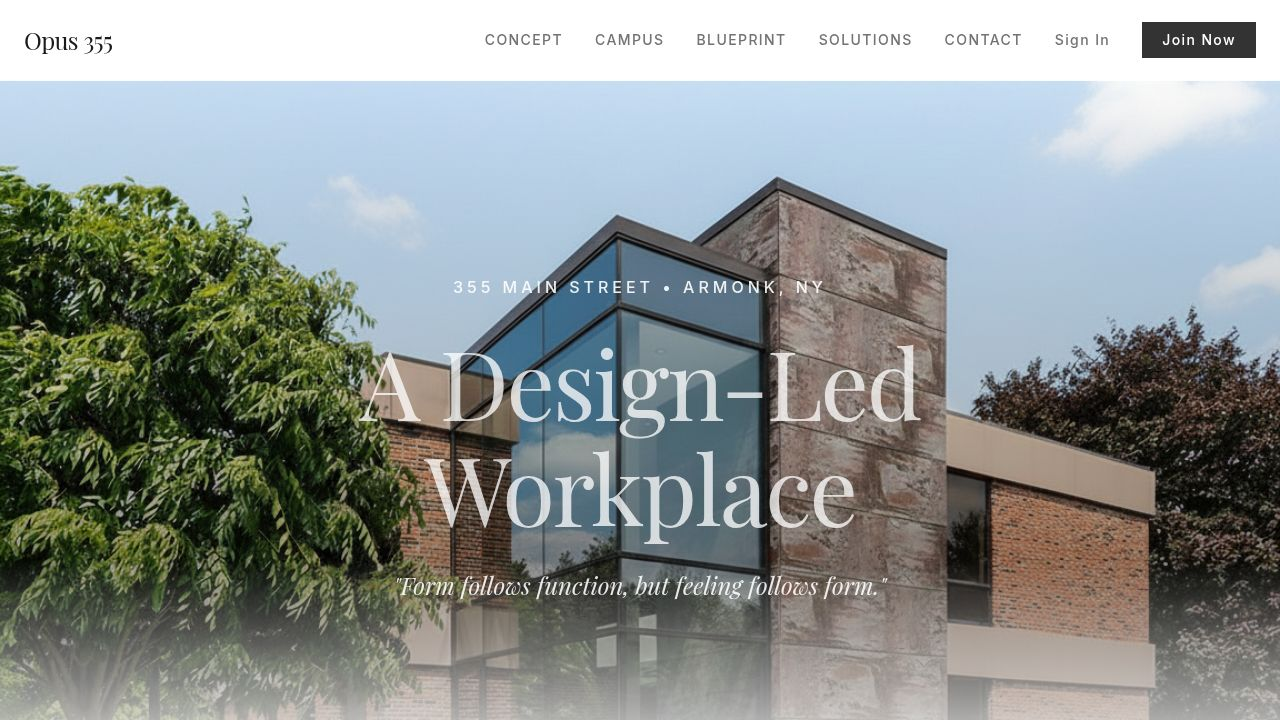
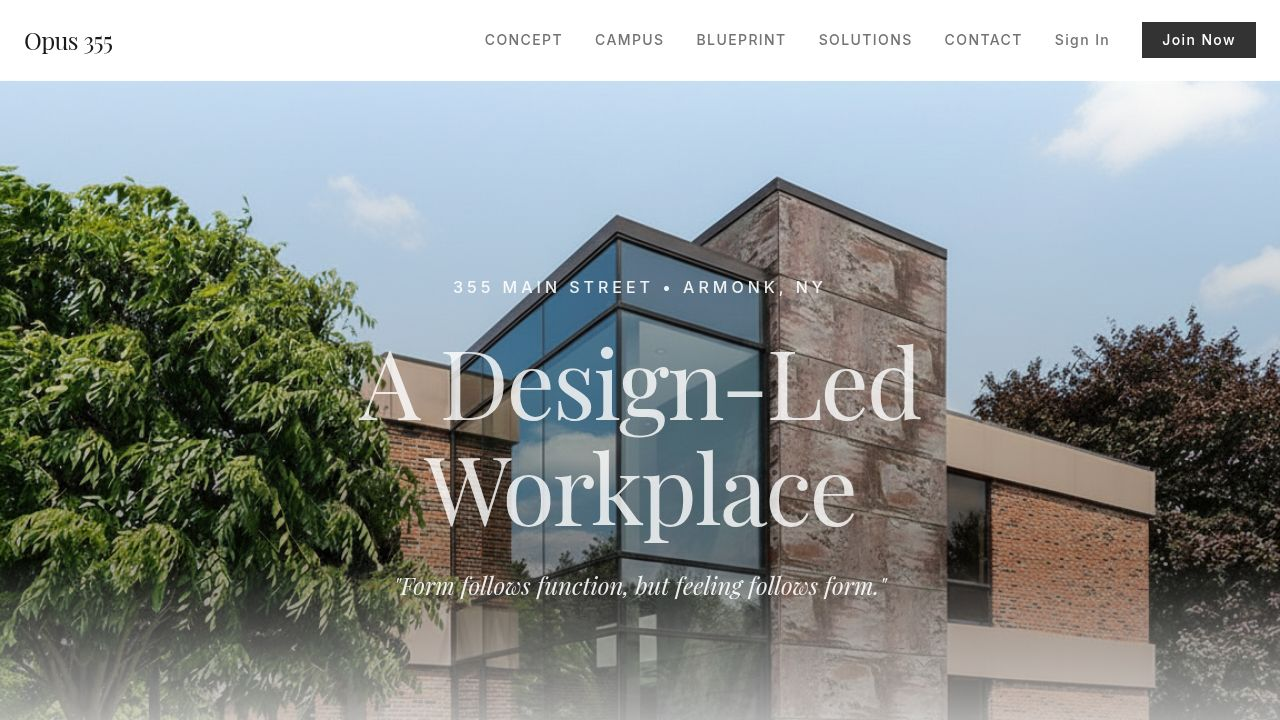
Add a dedicated page and improved error handling for authentication issues
Introduces an auth-error page and enhances the /api/auth/callback route to redirect to this page with specific error codes and details, improving user feedback and debugging capabilities.

Replit-Commit-Author: Agent
Replit-Commit-Session-Id: 16e21467-bb40-4acd-9b30-89ce2bb02aa0
Replit-Commit-Checkpoint-Type: intermediate_checkpoint
Replit-Commit-Event-Id: bac3530d-2cdc-47cc-b8c5-5e7d806a93bd
Replit-Commit-Screenshot-Url: https://storage.googleapis.com/screenshot-production-us-central1/9f72cabb-9bf3-4c30-9f3f-5f475a08b80e/16e21467-bb40-4acd-9b30-89ce2bb02aa0/fXp1WwT
Replit-Helium-Checkpoint-Created: true

diff --git a/client/src/pages/auth-error.tsx b/client/src/pages/auth-error.tsx
@@ -1,0 +1,128 @@
+import { useLocation } from "wouter";
+import { AlertTriangle, ArrowLeft, Mail, RefreshCw, HelpCircle } from "lucide-react";
+import { Button } from "@/components/ui/button";
+import { Card, CardContent, CardDescription, CardHeader, CardTitle } from "@/components/ui/card";
+
+const ERROR_MESSAGES: Record<string, { title: string; description: string; action?: string }> = {
+  auth_not_configured: {
+    title: "Authentication Not Available",
+    description: "The authentication system is not properly configured. Please contact support for assistance.",
+    action: "contact",
+  },
+  missing_code: {
+    title: "Authentication Incomplete",
+    description: "The authentication process was interrupted. This can happen if you navigated away during sign-in.",
+    action: "retry",
+  },
+  no_email: {
+    title: "Email Required",
+    description: "We couldn't retrieve your email address from the authentication provider. Please try signing in with a different method.",
+    action: "retry",
+  },
+  email_not_verified: {
+    title: "Email Not Verified",
+    description: "Please verify your email address before signing in. Check your inbox for a verification link.",
+    action: "retry",
+  },
+  auth_failed: {
+    title: "Authentication Failed",
+    description: "Something went wrong during sign-in. This may be a temporary issue. Please try again.",
+    action: "retry",
+  },
+  invalid_client: {
+    title: "Configuration Error",
+    description: "There's a mismatch in the authentication configuration. Our team has been notified and is working on a fix.",
+    action: "contact",
+  },
+  session_expired: {
+    title: "Session Expired",
+    description: "Your session has expired. Please sign in again to continue.",
+    action: "retry",
+  },
+  default: {
+    title: "Authentication Error",
+    description: "An unexpected error occurred during sign-in. Please try again or contact support if the problem persists.",
+    action: "retry",
+  },
+};
+
+export default function AuthError() {
+  const [, setLocation] = useLocation();
+  
+  const params = new URLSearchParams(window.location.search);
+  const errorCode = params.get("code") || "default";
+  const errorDetails = params.get("details");
+  
+  const errorInfo = ERROR_MESSAGES[errorCode] ?? ERROR_MESSAGES.default!;
+
+  const handleRetry = () => {
+    window.location.href = "/api/auth/login";
+  };
+
+  const handleGoHome = () => {
+    setLocation("/");
+  };
+
+  return (
+    <div className="min-h-screen flex items-center justify-center bg-background p-4" data-testid="auth-error-page">
+      <Card className="max-w-md w-full">
+        <CardHeader className="text-center">
+          <div className="flex justify-center mb-4">
+            <div className="rounded-full bg-destructive/10 p-4">
+              <AlertTriangle className="h-10 w-10 text-destructive" />
+            </div>
+          </div>
+          <CardTitle className="text-xl" data-testid="text-error-title">
+            {errorInfo.title}
+          </CardTitle>
+          <CardDescription className="text-base" data-testid="text-error-description">
+            {errorInfo.description}
+          </CardDescription>
+        </CardHeader>
+        
+        <CardContent className="space-y-4">
+          <div className="flex flex-col sm:flex-row gap-3 justify-center">
+            {errorInfo.action === "retry" && (
+              <Button onClick={handleRetry} data-testid="button-retry-auth">
+                <RefreshCw className="mr-2 h-4 w-4" />
+                Try Again
+              </Button>
+            )}
+            
+            {errorInfo.action === "contact" && (
+              <Button asChild data-testid="button-contact-support">
+                <a href="mailto:[email redacted]">
+                  <Mail className="mr-2 h-4 w-4" />
+                  Contact Support
+                </a>
+              </Button>
+            )}
+            
+            <Button variant="outline" onClick={handleGoHome} data-testid="button-go-home">
+              <ArrowLeft className="mr-2 h-4 w-4" />
+              Back to Home
+            </Button>
+          </div>
+
+          {errorDetails && process.env.NODE_ENV === "development" && (
+            <details className="mt-6 text-left">
+              <summary className="cursor-pointer text-sm text-muted-foreground hover:text-foreground flex items-center gap-2">
+                <HelpCircle className="h-4 w-4" />
+                Technical Details
+              </summary>
+              <div className="mt-2 p-3 bg-muted rounded-lg overflow-auto">
+                <pre className="text-xs text-muted-foreground whitespace-pre-wrap">
+                  {decodeURIComponent(errorDetails)}
+                </pre>
+              </div>
+            </details>
+          )}
+
+          <p className="text-center text-sm text-muted-foreground pt-4">
+            Error code: <code className="bg-muted px-1 rounded" data-testid="text-error-code">{errorCode}</code>
+          </p>
+        </CardContent>
+      </Card>
+    </div>
+  );
+}

diff --git a/server/routes.ts b/server/routes.ts
@@ -256,47 +256,75 @@ export async function registerRoutes(
     res.redirect(authorizationUrl);
   });
 
+  // Helper to redirect to auth error page with details
+  function redirectToAuthError(res: Response, code: string, details?: string) {
+    const params = new URLSearchParams({ code });
+    if (details && config.isDevelopment) {
+      params.set("details", encodeURIComponent(details));
+    }
+    res.redirect(`/auth-error?${params.toString()}`);
+  }
+
   // Handle OAuth callback from WorkOS
   app.get("/api/auth/callback", async (req, res) => {
+    const timestamp = new Date().toISOString();
+    console.log(`[${timestamp}] Auth callback started - query params:`, Object.keys(req.query));
+    
     try {
       if (!workos || !clientId) {
-        console.error("WorkOS credentials not configured");
-        res.redirect("/?error=auth_not_configured");
+        console.error(`[${timestamp}] WorkOS credentials not configured`);
+        redirectToAuthError(res, "auth_not_configured", "WorkOS client not initialized");
         return;
       }
 
-      const { code } = req.query;
+      const { code, error, error_description } = req.query;
+      
+      // Handle errors returned from WorkOS
+      if (error) {
+        console.error(`[${timestamp}] WorkOS returned error:`, error, error_description);
+        const errorCode = error === "invalid_client" ? "invalid_client" : "auth_failed";
+        redirectToAuthError(res, errorCode, `${error}: ${error_description}`);
+        return;
+      }
       
       if (!code || typeof code !== "string") {
-        res.redirect("/?error=missing_code");
+        console.error(`[${timestamp}] Missing authorization code`);
+        redirectToAuthError(res, "missing_code", "No authorization code in callback");
         return;
       }
 
+      console.log(`[${timestamp}] Exchanging code for tokens...`);
+      
       // Per WorkOS best practices: get user + tokens from auth code
       const authResult = await workos.userManagement.authenticateWithCode({
         clientId,
         code,
       });
 
+      console.log(`[${timestamp}] Token exchange successful, user:`, authResult.user?.email);
+
       const { user, accessToken, refreshToken } = authResult;
 
       // Validate that user has a verified email
       if (!user.email) {
-        console.error("WorkOS user has no email");
-        res.redirect("/?error=no_email");
+        console.error(`[${timestamp}] WorkOS user has no email`);
+        redirectToAuthError(res, "no_email", "User profile missing email address");
         return;
       }
 
       if (!user.emailVerified) {
-        console.error("WorkOS user email not verified:", user.email);
-        res.redirect("/?error=email_not_verified");
+        console.error(`[${timestamp}] WorkOS user email not verified:`, user.email);
+        redirectToAuthError(res, "email_not_verified", `Email ${user.email} is not verified`);
         return;
       }
+
+      console.log(`[${timestamp}] Looking up member in database...`);
 
       // Find or create member in our database
       let member = await storage.getMemberByEmail(user.email);
       
       if (!member) {
+        console.log(`[${timestamp}] Creating new member for:`, user.email);
         // Create new member from WorkOS user data
         member = await storage.createMember({
           email: user.email,
@@ -314,6 +342,8 @@ export async function registerRoutes(
         await storage.updateMember(member.id, { workosUserId: user.id } as any);
       }
 
+      console.log(`[${timestamp}] Setting up session for member:`, member.id);
+
       // Per best practices: Store tokens in server-side session (HttpOnly, encrypted)
       req.session.memberId = member.id;
       req.session.memberEmail = member.email;
@@ -323,11 +353,27 @@ export async function registerRoutes(
       // Access tokens expire in 5 minutes by default
       req.session.workosTokenExpiresAt = Date.now() + (5 * 60 * 1000);
 
+      console.log(`[${timestamp}] Auth complete, redirecting to dashboard`);
+
       // Redirect to member dashboard
       res.redirect("/dashboard");
-    } catch (error) {
-      console.error("WorkOS callback error:", error);
-      res.redirect("/?error=auth_failed");
+    } catch (error: any) {
+      const timestamp = new Date().toISOString();
+      console.error(`[${timestamp}] WorkOS callback error:`, error);
+      
+      // Extract useful error information
+      let errorCode = "auth_failed";
+      let errorDetails = error?.message || "Unknown error";
+      
+      if (error?.error === "invalid_client") {
+        errorCode = "invalid_client";
+        errorDetails = error?.errorDescription || "Client ID/secret mismatch";
+      } else if (error?.message?.includes("expired")) {
+        errorCode = "session_expired";
+      }
+      
+      console.error(`[${timestamp}] Error code: ${errorCode}, details: ${errorDetails}`);
+      redirectToAuthError(res, errorCode, errorDetails);
     }
   });
 

diff --git a/client/src/App.tsx b/client/src/App.tsx
@@ -21,6 +21,7 @@ const AdminDashboard = lazy(() => import("@/pages/admin/index"));
 const MemberDashboard = lazy(() => import("@/pages/dashboard"));
 const MemberPreferences = lazy(() => import("@/pages/preferences"));
 const HospitalityDashboard = lazy(() => import("@/pages/hospitality"));
+const AuthError = lazy(() => import("@/pages/auth-error"));
 
 function PageLoader() {
   return (
@@ -47,6 +48,7 @@ function Router() {
         <Route path="/dashboard" component={MemberDashboard} />
         <Route path="/preferences" component={MemberPreferences} />
         <Route path="/hospitality" component={HospitalityDashboard} />
+        <Route path="/auth-error" component={AuthError} />
         <Route component={NotFound} />
       </Switch>
     </Suspense>